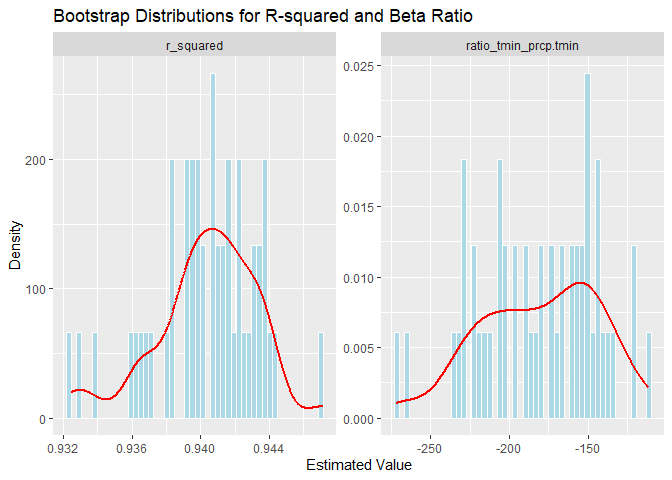
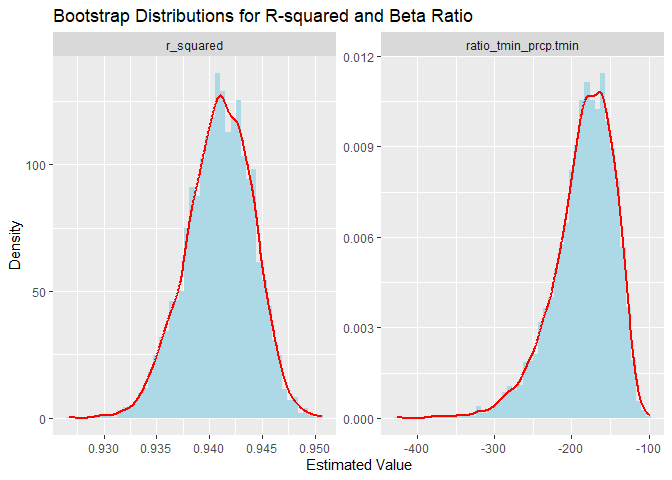
Calculate 95%CI

diff --git a/p8105_hw6_th3147.md b/p8105_hw6_th3147.md
@@ -55,7 +55,7 @@ extract_stats_vector <- function(model) {
 ``` r
 bootstrap_results <- 
   weather_df |> 
-  modelr::bootstrap(n = 50) |> 
+  modelr::bootstrap(n = 5000) |> 
   mutate(
     stats = map(strap, 
                 ~ lm(tmax ~ tmin + prcp, data = as_tibble(.)) |> 
@@ -77,7 +77,7 @@ bootstrap_plot <-
     values_to = "estimate"
   ) |> 
   ggplot(aes(x = estimate)) +
-  geom_histogram(aes(y = after_stat(density)), bins = 50, fill = "lightblue", color = "white") +
+  geom_histogram(aes(y = after_stat(density)), bins = 50, fill = "lightblue") +
   geom_density(color = "red", linewidth = 1) +
   facet_wrap(~ statistic, scales = "free") +
   labs(
@@ -90,3 +90,33 @@ bootstrap_plot
 ```
 
 ![](p8105_hw6_th3147_files/figure-gfm/unnamed-chunk-5-1.png)<!-- -->
+
+- The R-squared plot appears approximately normally distributed, whereas
+  the ratio of beta1 to beta2 plot shows a negatively skewed
+  distribution.
+
+### Calculate 95%CI
+
+``` r
+summary_stats <- 
+  bootstrap_results |> 
+  pivot_longer(
+    cols = c(r_squared, ratio_tmin_prcp.tmin),
+    names_to = "statistic",
+    values_to = "estimate"
+  ) |> 
+  group_by(statistic) |> 
+  summarize(
+    boot_se = sd(estimate),
+    ci_lower = quantile(estimate, 0.025),
+    ci_upper = quantile(estimate, 0.975)
+  )
+
+summary_stats
+```
+
+    ## # A tibble: 2 × 4
+    ##   statistic             boot_se ci_lower ci_upper
+    ##   <chr>                   <dbl>    <dbl>    <dbl>
+    ## 1 r_squared             0.00314    0.934    0.947
+    ## 2 ratio_tmin_prcp.tmin 39.7     -280.    -126.
